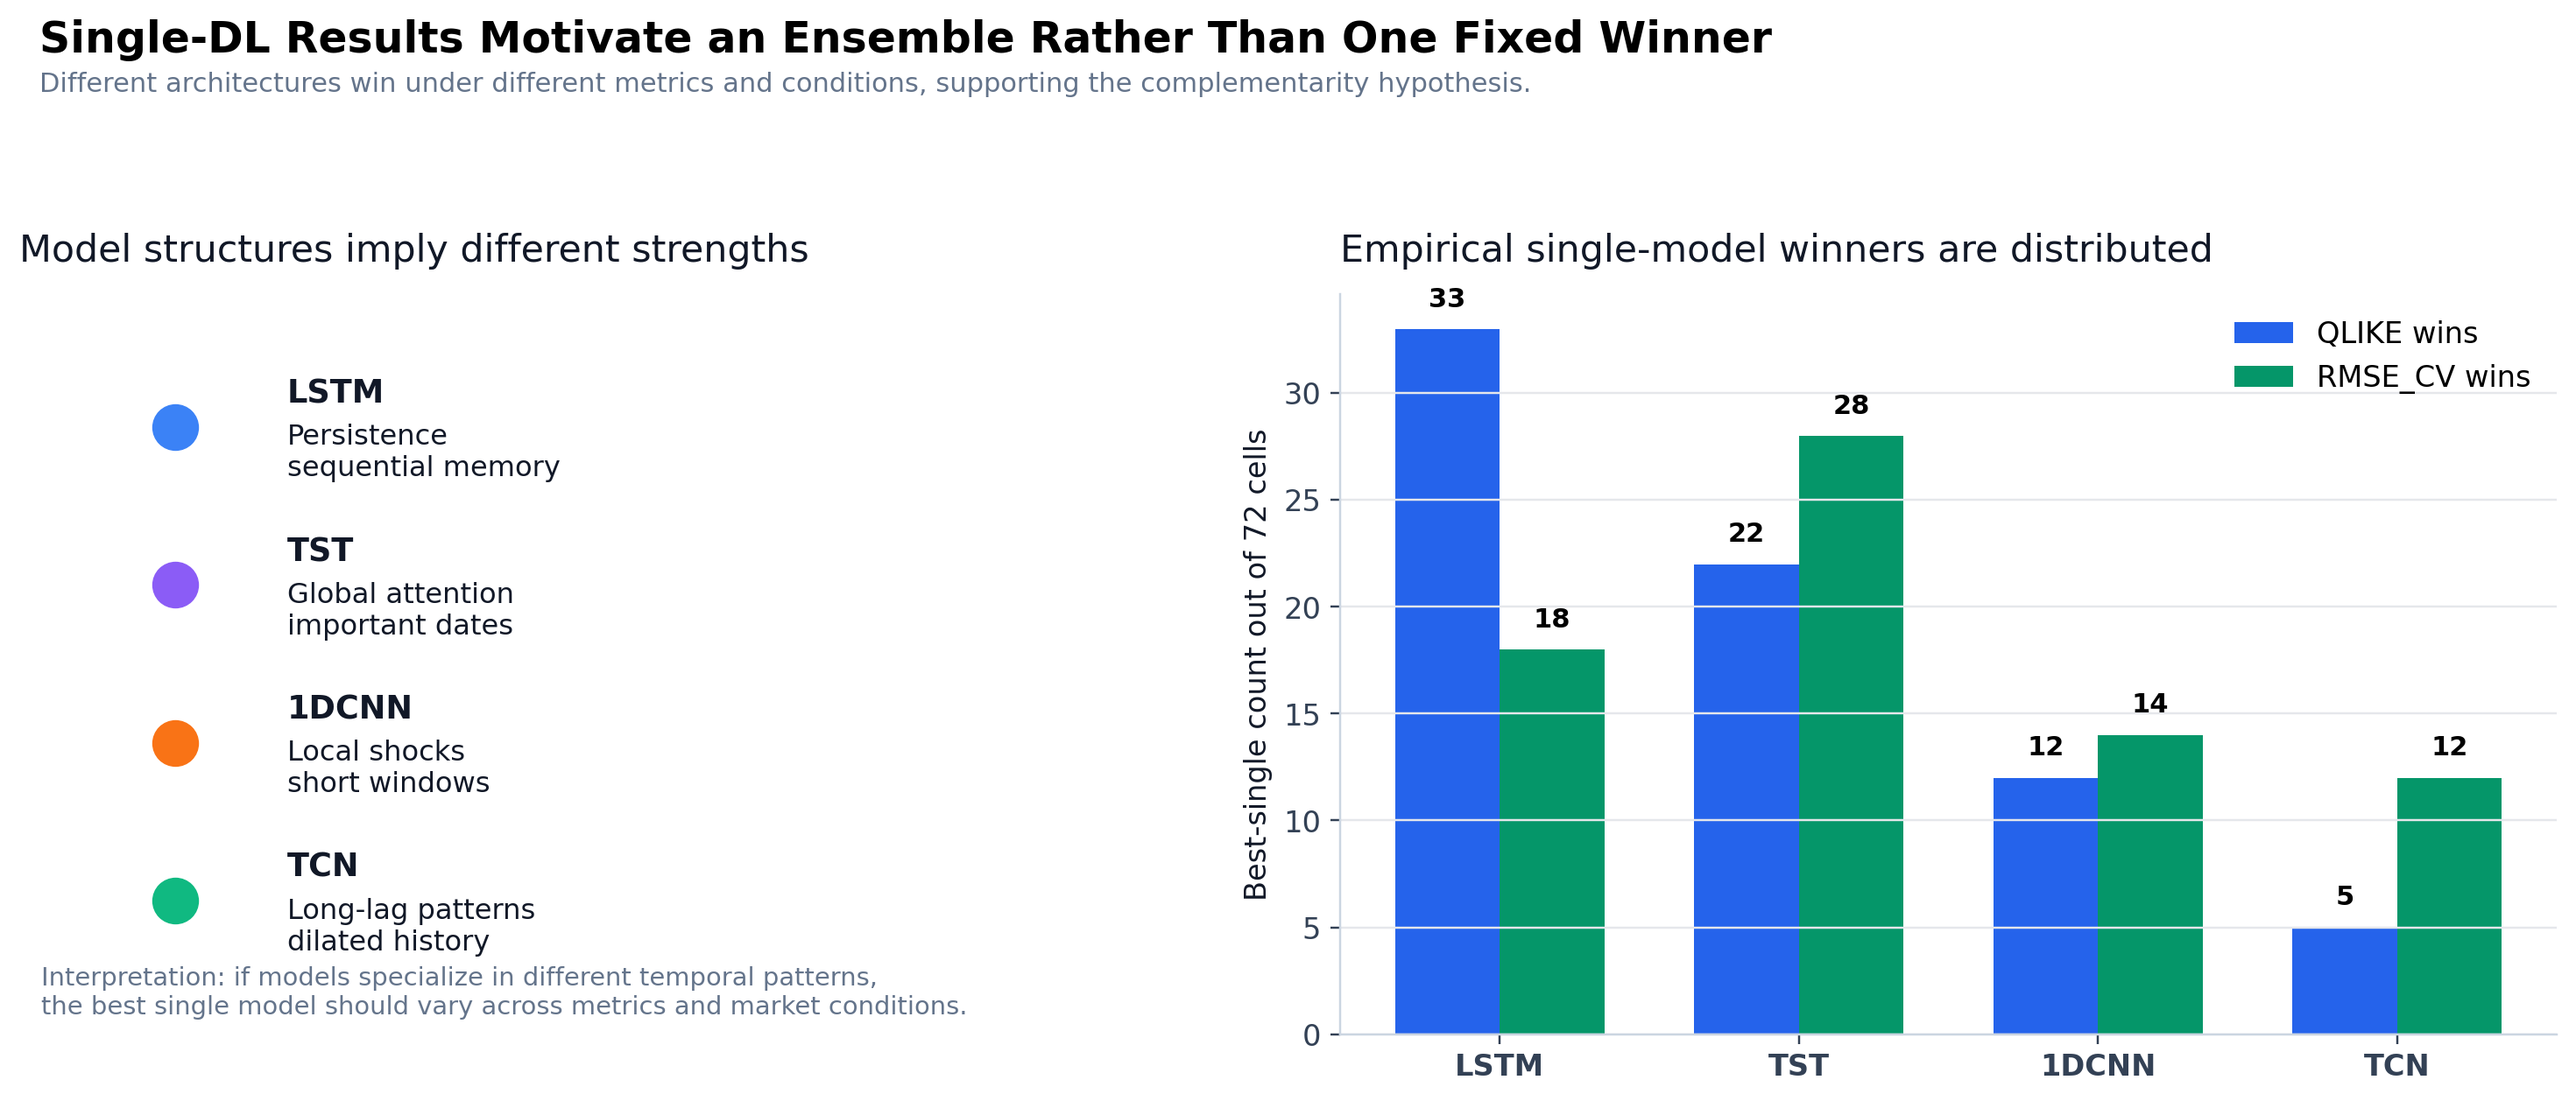
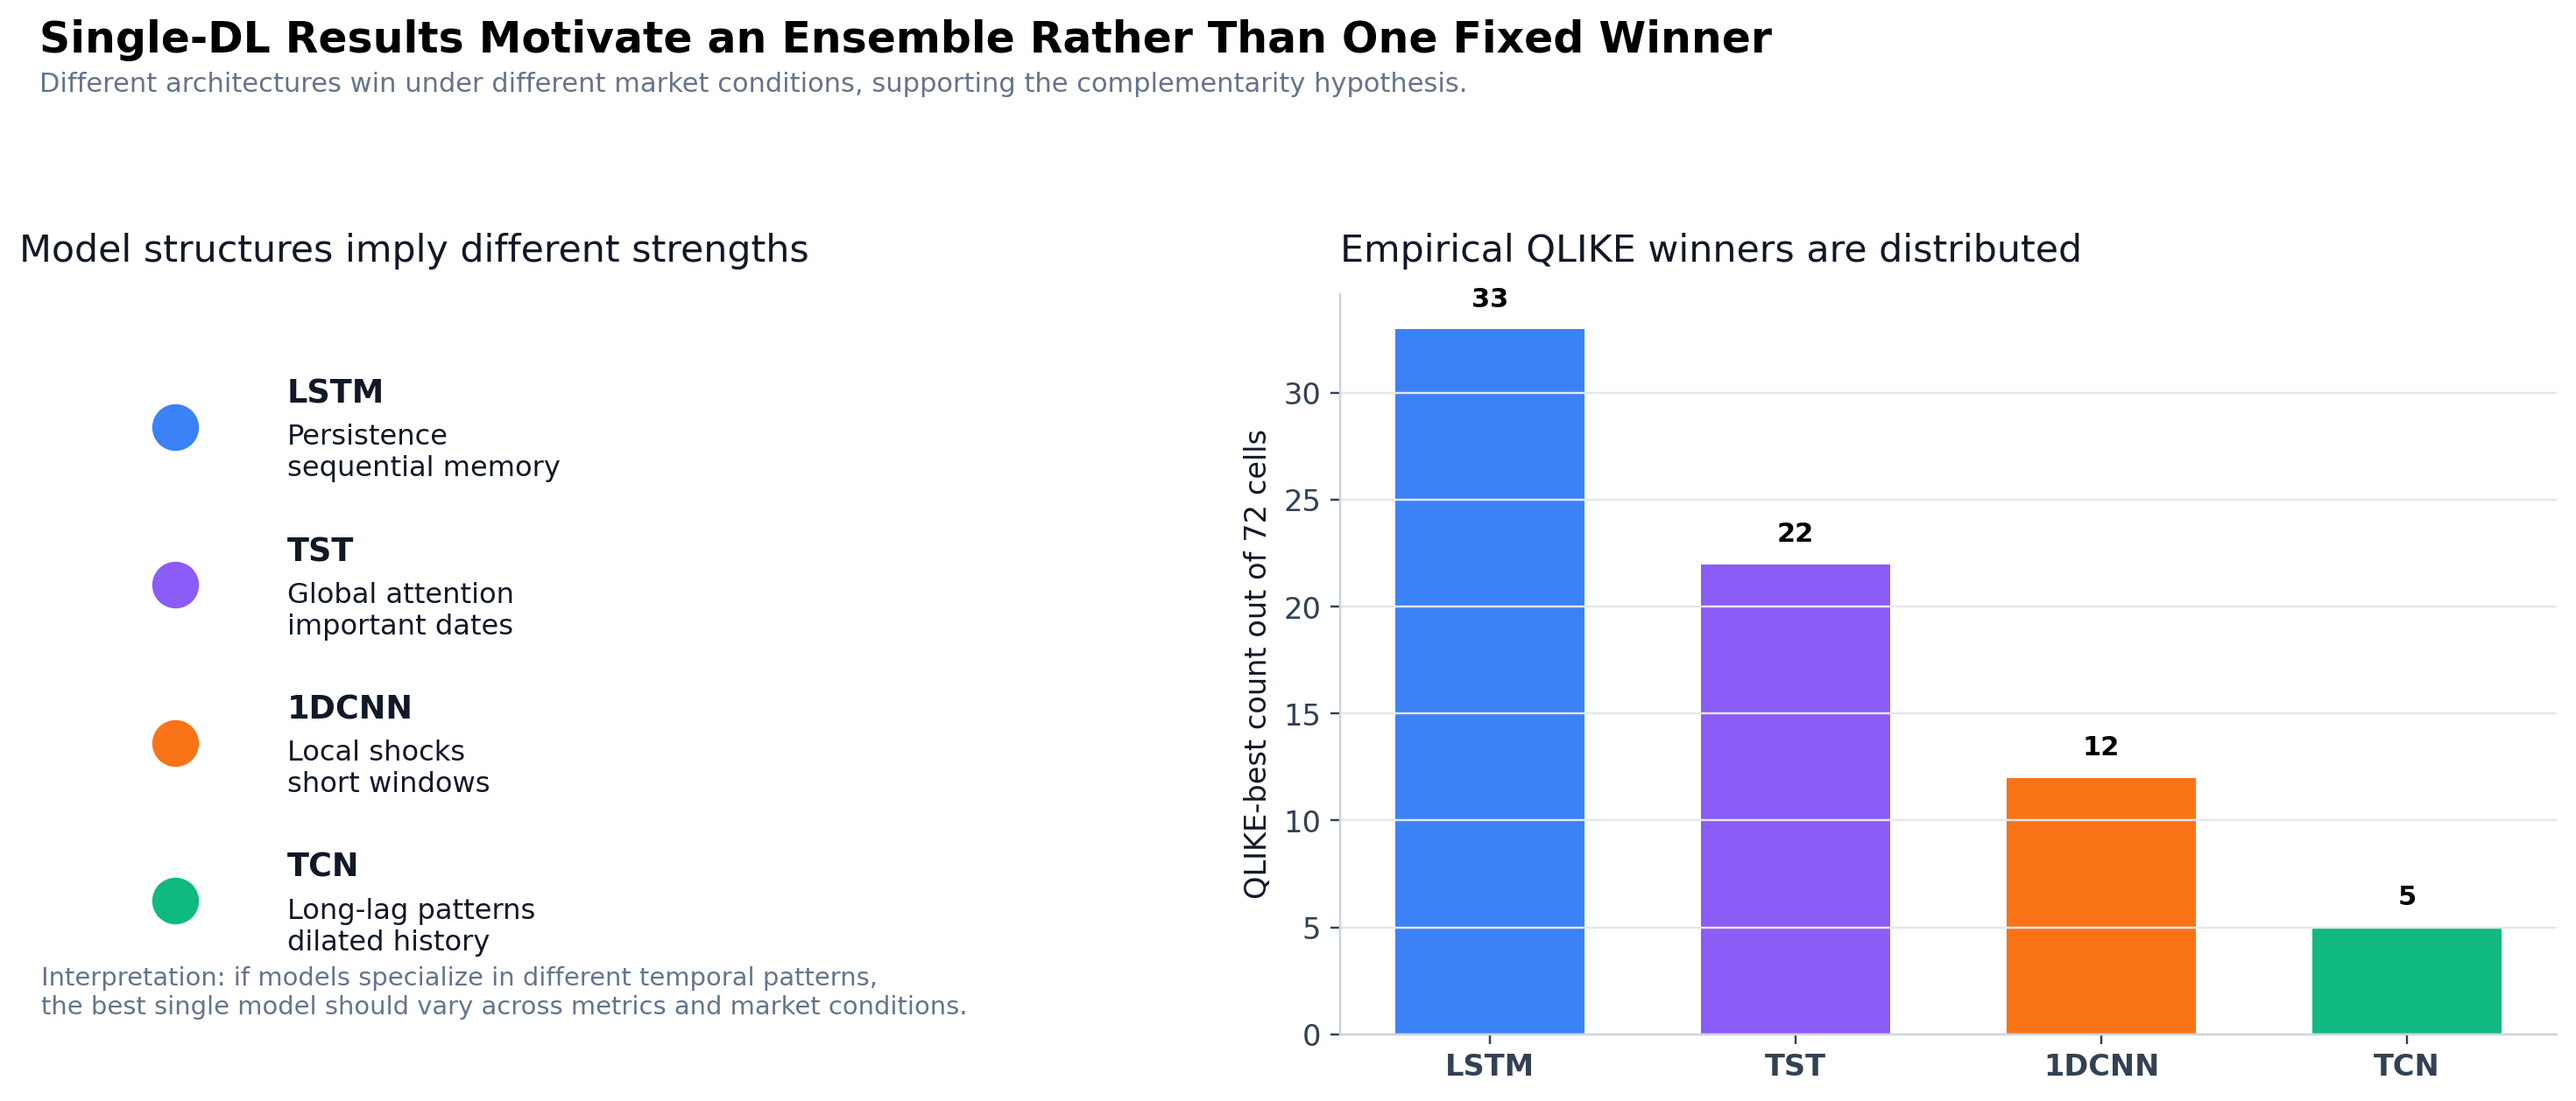
Refine DL master visualizations

diff --git a/src/ensemble/visualize_dl_master.py b/src/ensemble/visualize_dl_master.py
@@ -81,65 +81,8 @@ def _best_by_metric(full: pd.DataFrame, metric: str) -> pd.DataFrame:
     return full.loc[idx].copy()
 
 
-def plot_single_winner_counts(full: pd.DataFrame, output_dir: Path = FIGURE_DIR) -> Path:
-    """Figure 1: best single DL model changes when metric changes."""
-    _set_style()
-    best_qlike = _best_by_metric(full, "QLIKE")
-    best_rmse = _best_by_metric(full, "RMSE_CV")
-
-    counts = pd.DataFrame(
-        {
-            "QLIKE": best_qlike["model"].value_counts().reindex(MODELS, fill_value=0),
-            "RMSE_CV": best_rmse["model"].value_counts().reindex(MODELS, fill_value=0),
-        }
-    )
-
-    fig, ax = plt.subplots(figsize=(9.5, 5.4))
-    x = np.arange(len(MODELS))
-    width = 0.35
-    bars1 = ax.bar(x - width / 2, counts["QLIKE"], width, color=BLUE, label="QLIKE")
-    bars2 = ax.bar(x + width / 2, counts["RMSE_CV"], width, color=GREEN, label="RMSE_CV")
-
-    ax.set_xticks(x)
-    ax.set_xticklabels(MODELS, fontweight="bold")
-    ax.set_ylim(0, max(counts.max()) + 8)
-    ax.set_ylabel("Number of cells where model is best")
-    fig.suptitle(
-        "The Best Single DL Model Depends on the Evaluation Metric",
-        x=0.12,
-        y=0.98,
-        ha="left",
-        fontsize=16,
-        fontweight="bold",
-    )
-    fig.text(
-        0.12,
-        0.9,
-        "Unit: 72 cells. Lower QLIKE/RMSE_CV is better.",
-        color=GRAY,
-        fontsize=10,
-    )
-    ax.grid(axis="y", color=LIGHT_GRID)
-    ax.spines[["top", "right"]].set_visible(False)
-    ax.legend(loc="upper right")
-
-    for bars in [bars1, bars2]:
-        for bar in bars:
-            ax.text(
-                bar.get_x() + bar.get_width() / 2,
-                bar.get_height() + 0.8,
-                f"{int(bar.get_height())}",
-                ha="center",
-                va="bottom",
-                fontweight="bold",
-            )
-
-    fig.tight_layout(rect=(0, 0, 1, 0.86))
-    return _save(fig, output_dir, "01_single_dl_winner_counts.png")
-
-
 def plot_qlike_winner_map(full: pd.DataFrame, output_dir: Path = FIGURE_DIR) -> Path:
-    """Figure 2: QLIKE best single model changes by condition."""
+    """Figure 1: QLIKE best single model changes by condition."""
     _set_style()
     best = _best_by_metric(full, "QLIKE")
     regime_order = ["normal", "911", "gfc", "covid"]
@@ -199,20 +142,70 @@ def plot_qlike_winner_map(full: pd.DataFrame, output_dir: Path = FIGURE_DIR) -> 
     ax.set_xlabel("Feature tier / protocol")
     ax.set_ylabel("Regime / country")
     fig.tight_layout(rect=(0, 0, 0.88, 0.86))
-    return _save(fig, output_dir, "02_single_dl_winner_map_qlike.png")
+    return _save(fig, output_dir, "01_single_dl_winner_map_qlike.png")
+
+
+def plot_regime_winner_distribution(full: pd.DataFrame, output_dir: Path = FIGURE_DIR) -> Path:
+    """Figure 2: QLIKE best single DL composition by market regime."""
+    _set_style()
+    best = _best_by_metric(full, "QLIKE")
+    regime_order = ["normal", "911", "gfc", "covid"]
+    counts = pd.crosstab(best["regime"], best["model"]).reindex(regime_order).reindex(columns=MODELS, fill_value=0)
+
+    fig, ax = plt.subplots(figsize=(10.8, 5.8))
+    bottom = np.zeros(len(counts))
+    x = np.arange(len(counts))
+    for model in MODELS:
+        values = counts[model].to_numpy()
+        bars = ax.bar(x, values, bottom=bottom, label=model, color=MODEL_COLORS[model], width=0.64)
+        for i, (bar, value) in enumerate(zip(bars, values)):
+            if value > 0:
+                ax.text(
+                    bar.get_x() + bar.get_width() / 2,
+                    bottom[i] + value / 2,
+                    str(int(value)),
+                    ha="center",
+                    va="center",
+                    color="white",
+                    fontweight="bold",
+                    fontsize=11,
+                )
+        bottom += values
+
+    ax.set_xticks(x)
+    ax.set_xticklabels(regime_order, fontweight="bold")
+    ax.set_ylim(0, 18.8)
+    ax.set_ylabel("Number of QLIKE-best cells")
+    fig.suptitle(
+        "Different Market Regimes Favor Different DL Structures",
+        x=0.12,
+        y=0.98,
+        ha="left",
+        fontsize=16,
+        fontweight="bold",
+    )
+    fig.text(
+        0.12,
+        0.91,
+        "Each regime has 18 cells. Normal favors LSTM; 911 favors TST; GFC shows more local-shock diversity.",
+        color=GRAY,
+        fontsize=10,
+    )
+    ax.grid(axis="y", color=LIGHT_GRID)
+    ax.spines[["top", "right"]].set_visible(False)
+    ax.legend(title="Best single DL", bbox_to_anchor=(1.01, 1), loc="upper left")
+    fig.tight_layout(rect=(0, 0, 0.86, 0.86))
+    return _save(fig, output_dir, "02_regime_winner_distribution_qlike.png")
 
 
 def plot_model_role_summary(full: pd.DataFrame, output_dir: Path = FIGURE_DIR) -> Path:
-    """Figure 3: connect model structure hypotheses with empirical winner counts."""
+    """Figure 3: connect model structure hypotheses with QLIKE winner counts."""
     _set_style()
     best_qlike = _best_by_metric(full, "QLIKE")
-    best_rmse = _best_by_metric(full, "RMSE_CV")
     counts = pd.DataFrame(
         {
             "QLIKE wins": best_qlike["model"].value_counts().reindex(MODELS, fill_value=0),
-            "RMSE_CV wins": best_rmse["model"].value_counts().reindex(MODELS, fill_value=0),
             "Median QLIKE": full.groupby("model", observed=False)["QLIKE"].median().reindex(MODELS),
-            "Median RMSE_CV": full.groupby("model", observed=False)["RMSE_CV"].median().reindex(MODELS),
         }
     )
 
@@ -239,27 +232,23 @@ def plot_model_role_summary(full: pd.DataFrame, output_dir: Path = FIGURE_DIR) -
     )
 
     x = np.arange(len(MODELS))
-    width = 0.35
-    bars1 = axes[1].bar(x - width / 2, counts["QLIKE wins"], width, color=BLUE, label="QLIKE wins")
-    bars2 = axes[1].bar(x + width / 2, counts["RMSE_CV wins"], width, color=GREEN, label="RMSE_CV wins")
+    bars1 = axes[1].bar(x, counts["QLIKE wins"], color=[MODEL_COLORS[m] for m in MODELS], width=0.62)
     axes[1].set_xticks(x)
     axes[1].set_xticklabels(MODELS, fontweight="bold")
-    axes[1].set_ylabel("Best-single count out of 72 cells")
-    axes[1].set_title("Empirical single-model winners are distributed", loc="left", pad=12)
+    axes[1].set_ylabel("QLIKE-best count out of 72 cells")
+    axes[1].set_title("Empirical QLIKE winners are distributed", loc="left", pad=12)
     axes[1].grid(axis="y", color=LIGHT_GRID)
     axes[1].spines[["top", "right"]].set_visible(False)
-    axes[1].legend(loc="upper right")
-    for bars in [bars1, bars2]:
-        for bar in bars:
-            axes[1].text(
-                bar.get_x() + bar.get_width() / 2,
-                bar.get_height() + 0.8,
-                f"{int(bar.get_height())}",
-                ha="center",
-                va="bottom",
-                fontweight="bold",
-                fontsize=10,
-            )
+    for bar in bars1:
+        axes[1].text(
+            bar.get_x() + bar.get_width() / 2,
+            bar.get_height() + 0.8,
+            f"{int(bar.get_height())}",
+            ha="center",
+            va="bottom",
+            fontweight="bold",
+            fontsize=10,
+        )
 
     fig.suptitle(
         "Single-DL Results Motivate an Ensemble Rather Than One Fixed Winner",
@@ -272,7 +261,7 @@ def plot_model_role_summary(full: pd.DataFrame, output_dir: Path = FIGURE_DIR) -
     fig.text(
         0.02,
         0.915,
-        "Different architectures win under different metrics and conditions, supporting the complementarity hypothesis.",
+        "Different architectures win under different market conditions, supporting the complementarity hypothesis.",
         color=GRAY,
         fontsize=10,
     )
@@ -286,8 +275,8 @@ def make_all_dl_master_figures(project_root: str | Path = ".", output_dir: str |
     out_dir = root / FIGURE_DIR if output_dir is None else Path(output_dir)
     full = load_dl_master(root)
     paths = [
-        plot_single_winner_counts(full, out_dir),
         plot_qlike_winner_map(full, out_dir),
+        plot_regime_winner_distribution(full, out_dir),
         plot_model_role_summary(full, out_dir),
     ]
     pd.DataFrame({"figure": [p.name for p in paths], "path": [p.as_posix() for p in paths]}).to_csv(
